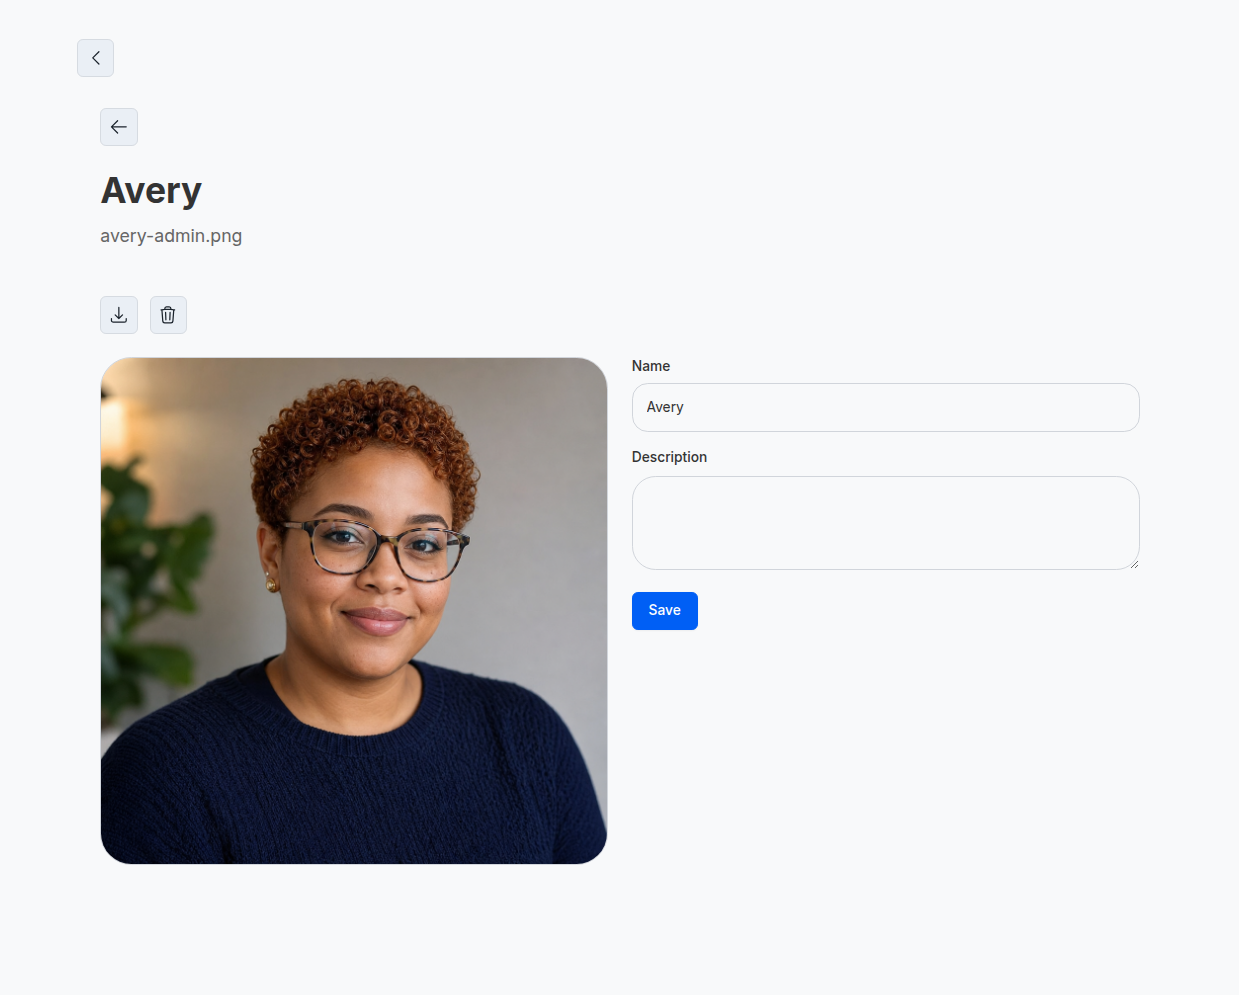
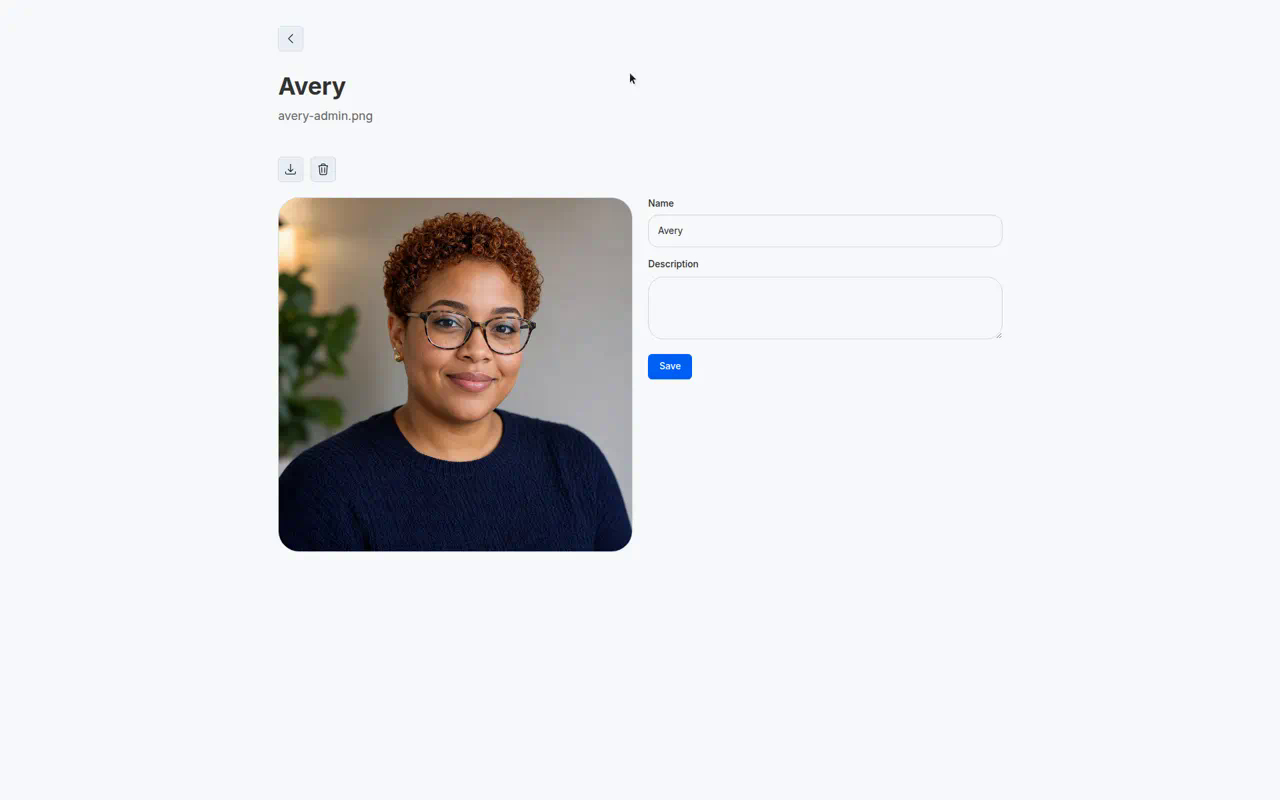
fix: one core PageNav on dummy profile photo replace
Attachable 0.4.0 always renders an in-view PageNav, which stacked on
core default_layout. Dummy now overrides the attachment show template
so only core owns back/close.

Changed region(s): [[0.0613, 0.1875, 0.5827, 0.875], [0.0613, 0.1875, 0.2147, 0.25], [0.2147, 0.0938, 0.3067, 0.1562]]

diff --git a/test/dummy/test/integration/profile_flow_test.rb b/test/dummy/test/integration/profile_flow_test.rb
@@ -187,6 +187,37 @@ class ProfileFlowTest < ActionDispatch::IntegrationTest
     refute_includes response.body, "Manage access"
   end
 
+  test "profile photo replace uses one core PageNav and rounded default layout" do
+    sign_in @user
+    recording = RecordingStudioUser.profile_recording_for(@user)
+    image = attach_profile_photo!(@user)
+    override = Rails.root.join("app/views/recording_studio_attachable/attachments/show.html.erb")
+
+    get recording_studio_attachable.attachment_path(
+      image,
+      redirect_mode: "return_to",
+      return_to: recording_studio_users.profile_path
+    )
+
+    assert_response :success
+    assert File.exist?(override)
+    refute_includes File.read(override), "FlatPack::PageNav"
+    refute File.exist?(Rails.root.join("app/views/layouts/recording_studio/default_layout.html.erb"))
+    assert_select %(body[data-recording-studio-default-layout="true"]), count: 1
+    assert_select %(body[data-theme="rounded"]), count: 1
+    assert_select "html[data-theme]", count: 0
+    assert_select "nav.flat-pack-page-nav", count: 1
+    assert_match(/flat-pack--page-nav#back/, response.body)
+    assert_select %(a[href="#{recording_studio_accessible.recording_accesses_path(recording)}"]), count: 0
+    refute_includes response.body, "Manage access"
+    refute_includes response.body, "Sign out"
+    refute_includes response.body, "Root Switchable"
+    refute_includes response.body, "flat-pack-sidebar-layout"
+    assert_includes response.body, "Save"
+    assert_includes response.body, "Name"
+    assert_includes response.body, image.recordable.original_filename
+  end
+
   test "a current_user-only ACL is not used for profile authorization" do
     controller = File.read(RecordingStudioUser::Engine.root.join("app/controllers/recording_studio_user/profiles_controller.rb"))
 

diff --git a/test/gem_template_test.rb b/test/gem_template_test.rb
@@ -30,6 +30,18 @@ class RecordingStudioUserTest < Minitest::Test
     refute_includes show, "FlatPack::Alert::Component"
   end
 
+  def test_dummy_overrides_attachable_show_without_an_in_view_page_nav
+    override = File.read(File.expand_path("dummy/app/views/recording_studio_attachable/attachments/show.html.erb", __dir__))
+
+    assert_includes override, "recording_studio_page_nav"
+    refute_includes override, "recording_studio_page_nav_right"
+    refute_includes override, "FlatPack::PageNav"
+    refute_includes override, "recording_access_management_link"
+    refute_includes override, "Manage access"
+    assert_includes override, "FlatPack::PageTitle::Component"
+    assert_includes override, "FlatPack::TextInput::Component"
+  end
+
   def test_dummy_sidebar_links_the_mounted_profile_helper
     sidebar = File.read(File.expand_path("dummy/app/views/layouts/flat_pack/_sidebar.html.erb", __dir__))
 

diff --git a/CHANGELOG.md b/CHANGELOG.md
@@ -17,12 +17,14 @@ and this project adheres to [Semantic Versioning](https://semver.org/spec/v2.0.0
 
 ### Changed
 - Profile PageNav right slot is empty. Profile is owner-only: Accessible still records the first owner with `bootstrap_owner_access!`, but show/edit no longer render `recording_access_management_link` or any grant/invite control.
+- Dummy overrides Attachable's attachment show so only core `recording_studio/default_layout` PageNav renders. Attachable 0.4.0 has no config to hide its in-view PageNav; the host template keeps the replace UI and leaves the right slot empty.
 
 ### Upgrade notes
 - Enable Attachable on Profile only, using the `.to` mixin and the image-only options above. Do not enable it on People.
 - Run `bin/rails generate recording_studio_attachable:install`, `bin/rails generate recording_studio_attachable:migrations`, and `bin/rails active_storage:install` if those are missing. Mount the engine and keep `@rails/activestorage` plus `ActiveStorage.start()` as the Attachable README describes.
 - Remove `recording_access_management_link` (and any Access control) from Profile PageNav. First-owner bootstrap stays; do not add invite/grant UI on Profile.
 - Use `attach_profile_image!` or `recording.import_attachment` to place one image under the Profile recording. Use the Attachable revision screen / `replace_attachment_file` to swap it. Do not ship a library as the profile page.
+- If Attachable uses core `recording_studio/default_layout`, override the attachment show view so it does not render a second PageNav. Attachable 0.4.0 has no hide-chrome setting.
 
 ## [0.4.0] - 2026-08-21
 

diff --git a/README.md b/README.md
@@ -149,7 +149,7 @@ The host owns administration and must create its admin recordable/root, mount Re
 
 The dummy keeps Devise login at `/users/sign_in`. Signed-in pages use core `recording_studio/default_layout` via `RecordingStudio::UsesDefaultLayout` (PageNav back/close). Devise pages keep `layouts/application` with `html data-theme="rounded"`. Dummy does not copy or override core's default layout. Rounded on profile pages is core's `body data-theme` (default `"rounded"`).
 
-Profile show/edit are that chrome only — no sidebar, Sign out, Root Switchable, or Access slot. Attachable is mounted at `/recording_studio_attachable` with the same default layout so upload and replace stay rounded. Seeded accounts include:
+Profile show/edit are that chrome only — no sidebar, Sign out, Root Switchable, or Access slot. Attachable is mounted at `/recording_studio_attachable` with the same default layout so upload and replace stay rounded. Dummy overrides Attachable's attachment show to omit the gem's in-view PageNav so core owns the single back/close set. Seeded accounts include:
 
 | Email | Password |
 | --- | --- |

diff --git a/test/dummy/README.md b/test/dummy/README.md
@@ -8,6 +8,7 @@ This Rails application demonstrates RecordingStudioUser in a host application.
 - Workspace remains the host-owned bucket. Access-controlled, read-only reporting on sitewide users is still mounted.
 - Signed-in pages use Recording Studio's default layout (`RecordingStudio::UsesDefaultLayout`). Devise keeps `layouts/application`. Dummy does not own `recording_studio/default_layout`.
 - Profile show/edit are PageNav back/close only. The right slot stays empty. There is no Access control, sidebar Sign out, or Root Switchable on those screens.
+- The photo replace screen uses the same core layout. Dummy overrides Attachable's attachment show so that gem's in-view PageNav is not stacked on top of core's.
 
 ## Quick Start
 
